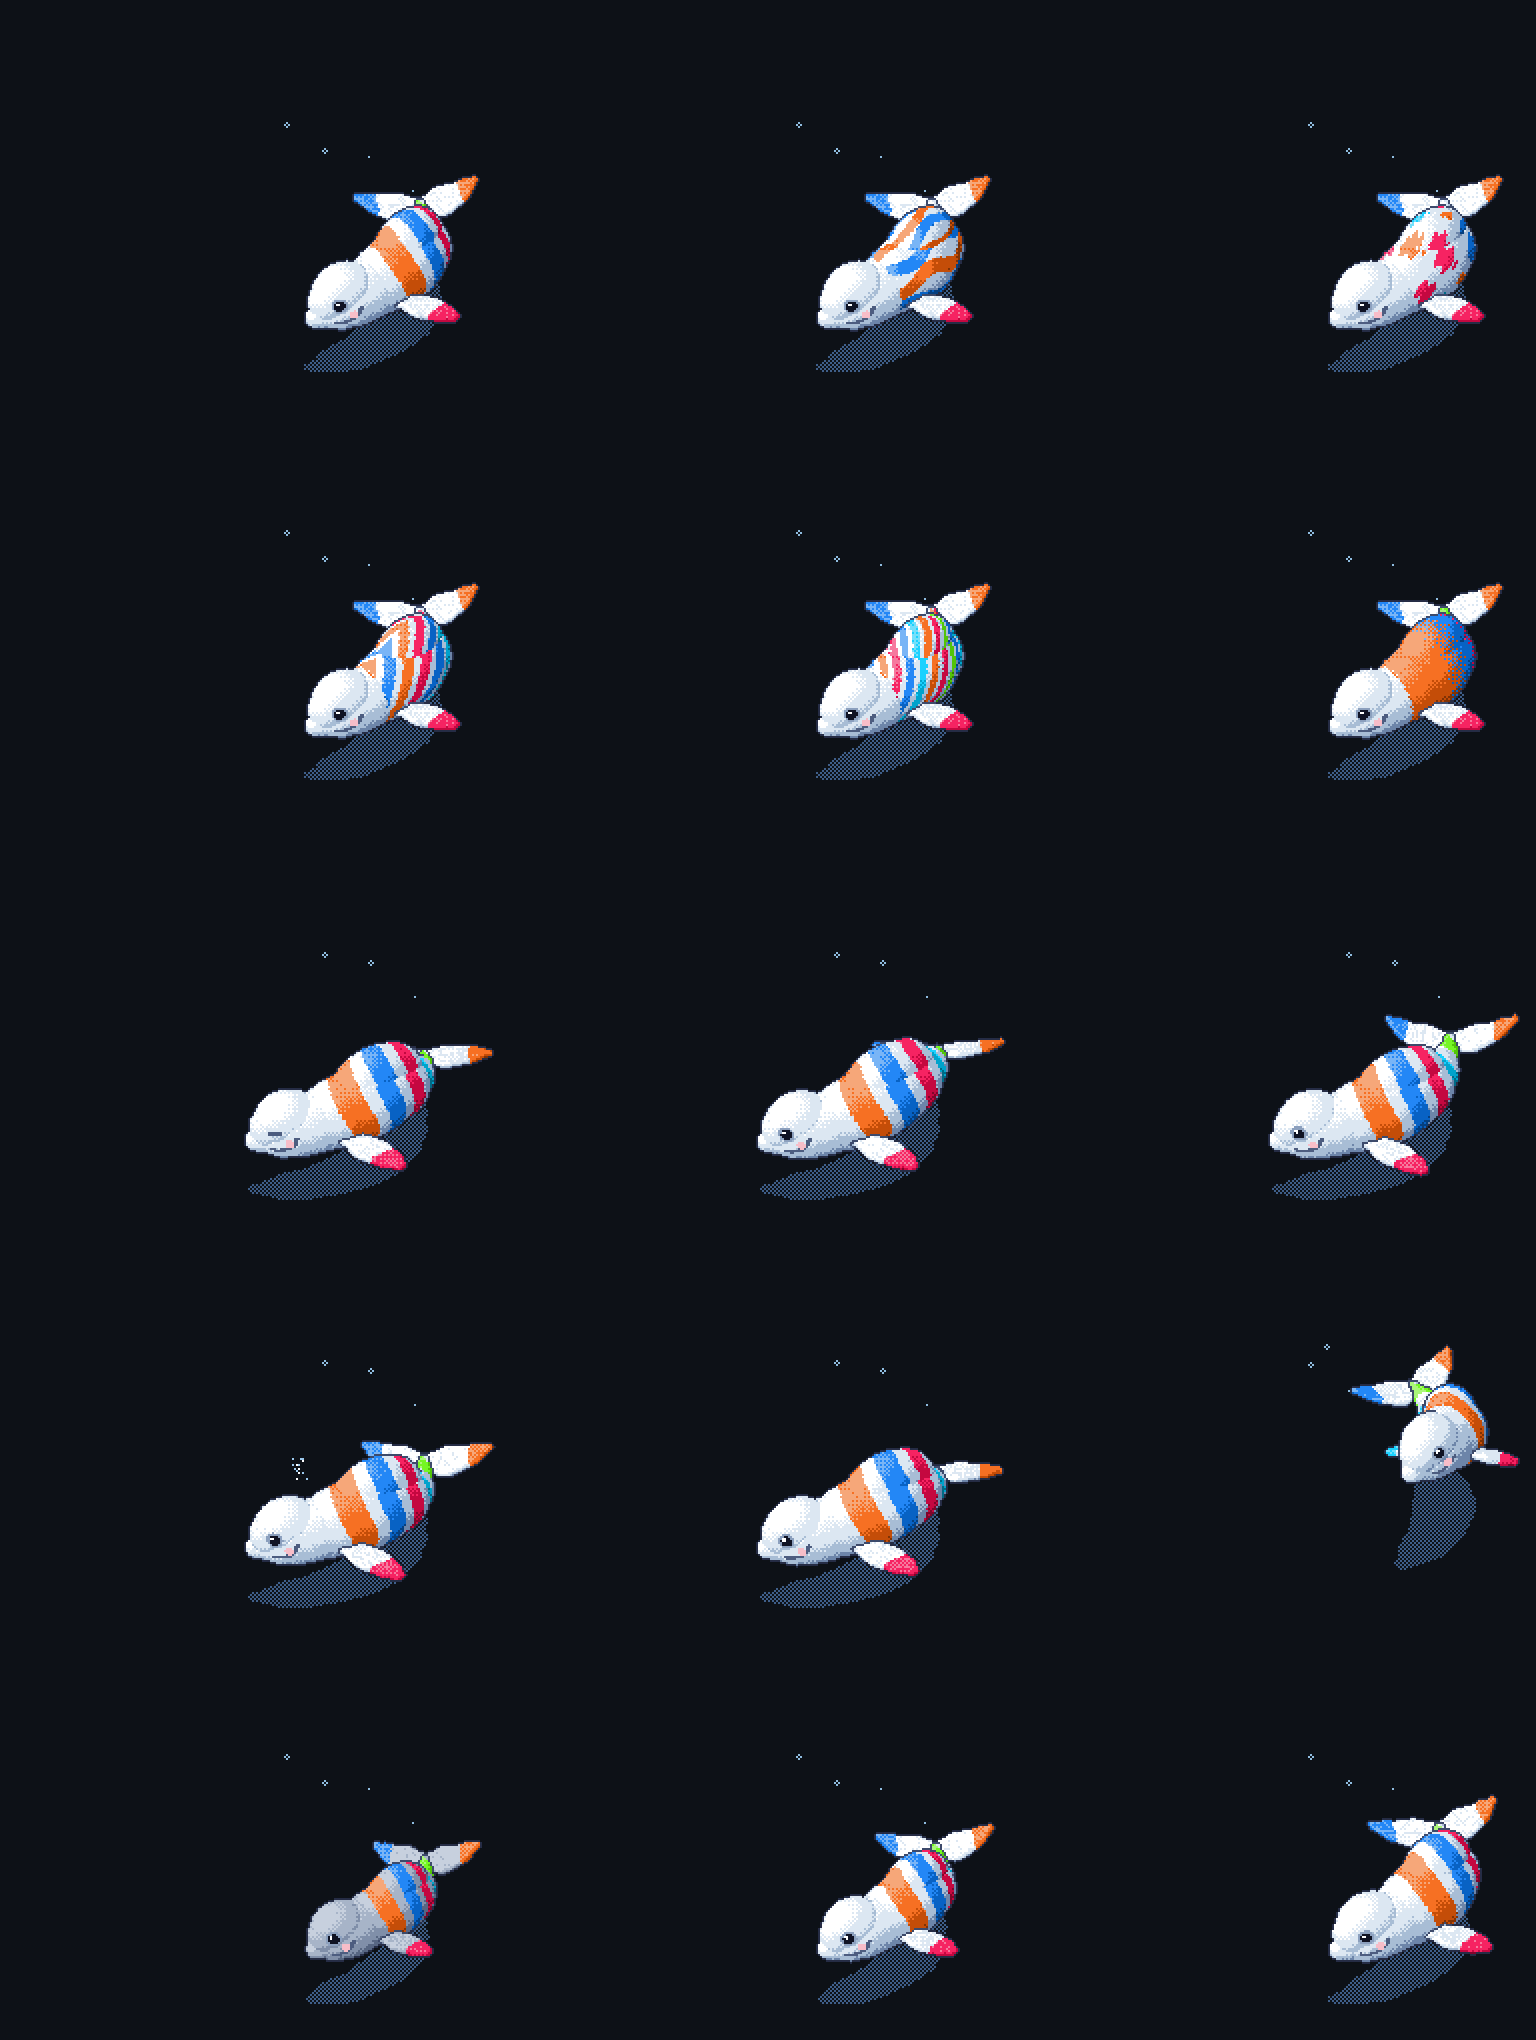
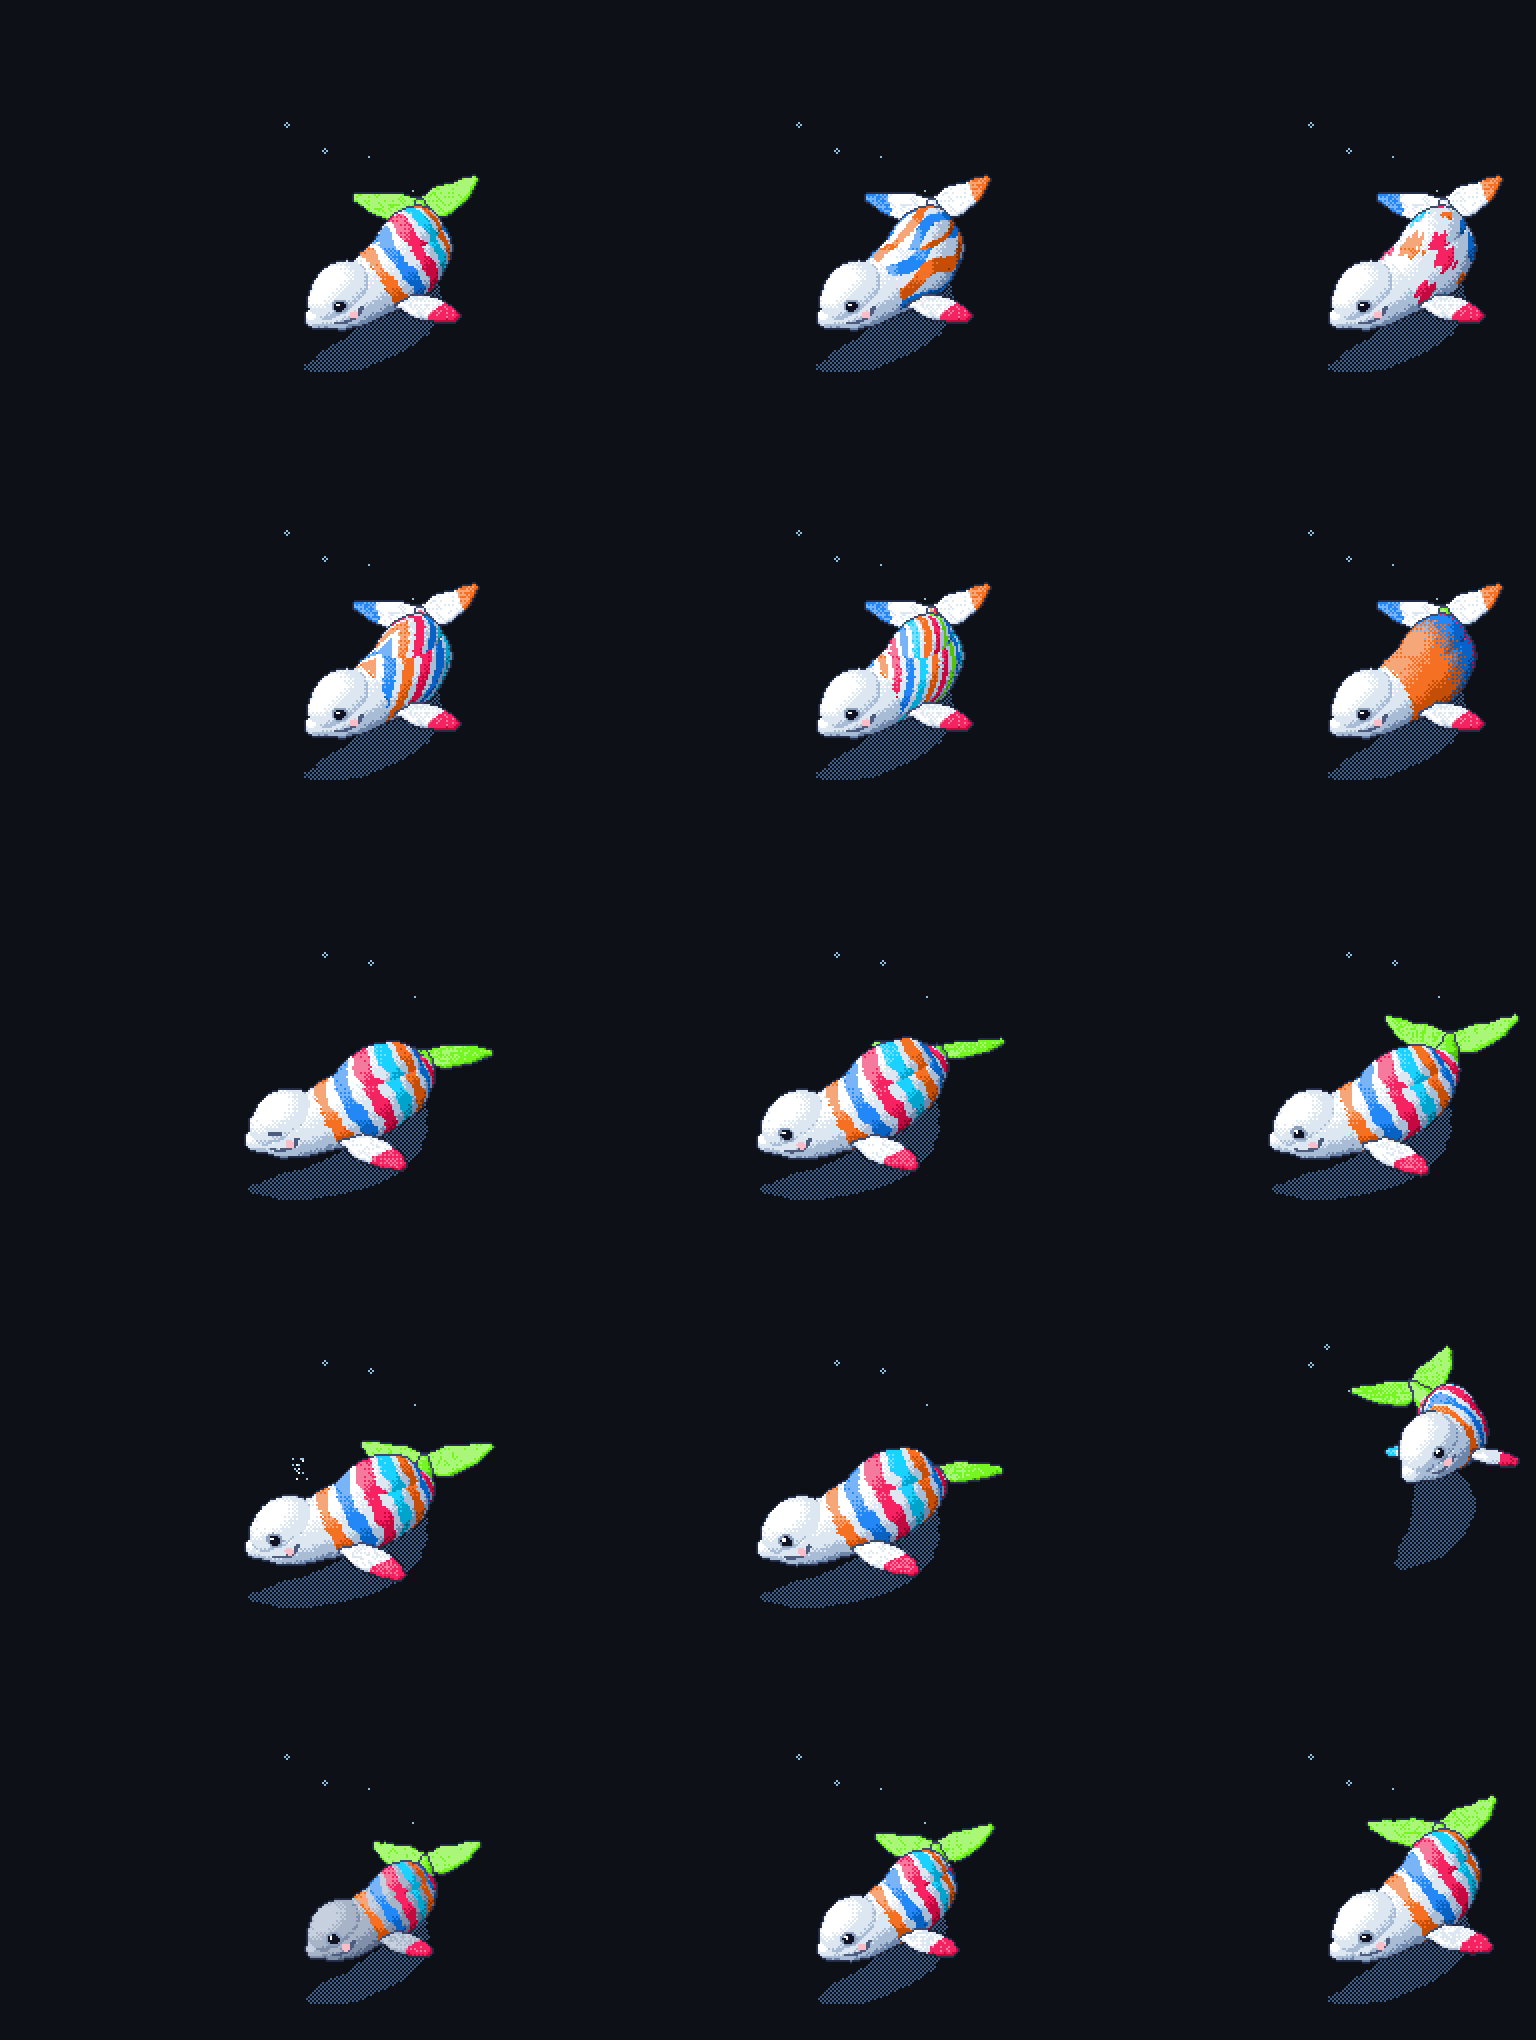
Bring back repeating wavy rings and fill the tail with the least-used language

diff --git a/src/whale.rs b/src/whale.rs
@@ -21,8 +21,13 @@ const ZOOM: f32 = 1.2;
 const WATER_Z: f32 = -27.0;
 /// Where color starts on the body; the head stays white for the face.
 const COLOR_START: f32 = 0.25;
-/// How much of the skin behind the head the rings cover; the rest stays white between them.
-const RING_COVERAGE: f32 = 0.55;
+/// Rings repeat down the body: this many, one wave of color and white each.
+const HOOPS: usize = 7;
+const HOOP_LENGTH: f32 = 7.6;
+/// The part of each hoop's length that is color; the rest stays white.
+const HOOP_COLOR: f32 = 0.62;
+/// Behind this point the body is the tail, painted in the least-used language.
+const TAIL_START: f32 = 0.84;
 const MOUTH_RADIUS: f32 = 0.72;
 const BLUSH_RADIUS: f32 = 1.7;
 const EYE_U: f32 = 0.15;
@@ -284,7 +289,8 @@ impl Buffer {
 
 #[derive(Clone, Copy, PartialEq, Debug)]
 pub enum Pattern {
-    /// Slim hoops around the body, sized by each language's share of the colored skin.
+    /// Wavy hoops down the body, repeated in proportion to the languages, with the least-used
+    /// language filling the tail.
     Rings,
     /// Long ribbons of light flowing the length of the body.
     Aurora,
@@ -327,59 +333,26 @@ fn mix(a: Rgb, b: Rgb, t: f32) -> Rgb {
     Rgb(m(a.0, b.0), m(a.1, b.1), m(a.2, b.2))
 }
 
-/// One ring: where it starts and ends along the body, and whose language it is.
-#[derive(Clone, Copy, Debug)]
-struct Ring {
-    start: f32,
-    end: f32,
-    language: usize,
-}
-
-/// Lays out one ring per language so each covers its share of the skin. A ring's length is
-/// not its share, because the body tapers: skin area goes with the radius, so the same share
-/// makes a narrow ring on the wide back and a longer one near the thin tail.
-fn lay_out_rings(shares: &[f32]) -> Vec<Ring> {
-    const STEPS: usize = 4000;
-    let total: f32 = shares.iter().sum();
-    if total <= 0.0 {
+/// Which language each hoop wears, from the head back. The least-used language has the tail,
+/// so the others share the hoops: everyone gets one, then the rest go by share. An account
+/// with one language wears it everywhere.
+fn hoop_languages(shares: &[f32]) -> Vec<usize> {
+    let pool = shares.len().saturating_sub(1).max(1).min(shares.len());
+    if pool == 0 {
         return Vec::new();
     }
-    let step = (1.0 - COLOR_START) / STEPS as f32;
-    let area_of = |i: usize| radius(COLOR_START + (i as f32 + 0.5) * step) * step * LENGTH;
-    let body_area: f32 = (0..STEPS).map(area_of).sum();
-    let colored = body_area * RING_COVERAGE;
-    // Each ring follows an equal band of white, so slim rings spread down the body.
-    let gap_area = (body_area - colored) / shares.len() as f32;
-    let mut rings = Vec::with_capacity(shares.len());
-    let (mut i, mut walked) = (0, 0.0);
-    for (language, &share) in shares.iter().enumerate() {
-        // White comes first, so the last and smallest ring lands on the thin tail, where the
-        // same area makes a longer, easier-to-see band.
-        let gap_end = walked + gap_area;
-        while i < STEPS && walked < gap_end {
-            walked += area_of(i);
-            i += 1;
-        }
-        let start = COLOR_START + i as f32 * step;
-        let target = walked + share / total * colored;
-        while i < STEPS && walked < target {
-            walked += area_of(i);
-            i += 1;
-        }
-        rings.push(Ring {
-            start,
-            end: COLOR_START + i as f32 * step,
-            language,
-        });
+    let mut hoops: Vec<usize> = (0..pool.min(HOOPS)).collect();
+    let total: f32 = shares[..pool].iter().sum();
+    while hoops.len() < HOOPS {
+        let need = |i: usize| {
+            shares[i] / total * HOOPS as f32 - hoops.iter().filter(|&&h| h == i).count() as f32
+        };
+        let best = (0..pool)
+            .max_by(|&a, &b| need(a).total_cmp(&need(b)).then(b.cmp(&a)))
+            .expect("the pool is not empty");
+        hoops.push(best);
     }
-    rings
-}
-
-fn ring_at(rings: &[Ring], u: f32) -> Option<usize> {
-    rings
-        .iter()
-        .find(|r| u >= r.start && u < r.end)
-        .map(|r| r.language)
+    hoops
 }
 
 /// Everything about the whale that does not change from frame to frame.
@@ -391,7 +364,9 @@ pub struct Whale {
     head_boost: f32,
     skin: Ramp,
     ramps: Vec<Ramp>,
-    rings: Vec<Ring>,
+    hoops: Vec<usize>,
+    /// The least-used language, which fills the tail in the Rings pattern.
+    least_used: Option<usize>,
     slots: Vec<usize>,
     /// Colors for bands that travel: exactly FLOW_BANDS pass per lap, so the loop closes.
     flow: Vec<usize>,
@@ -454,7 +429,8 @@ impl Whale {
                     Ramp::language(parse_hex(&l.color).unwrap_or(Rgb(0x8b, 0x93, 0xa7)), vivid)
                 })
                 .collect(),
-            rings: lay_out_rings(&shares),
+            hoops: hoop_languages(&shares),
+            least_used: shares.len().checked_sub(1),
             tips: allot(&shares, 4),
             flow: allot(&shares, FLOW_BANDS),
             slots,
@@ -656,12 +632,6 @@ fn along_body(samples: &[Sample], pos: V3) -> f32 {
     best as f32 / (samples.len() - 1) as f32
 }
 
-#[cfg(test)]
-thread_local! {
-    /// Body pixels drawn per ring language, so tests can measure the real picture.
-    static RING_PIXELS: std::cell::RefCell<Vec<u32>> = const { std::cell::RefCell::new(Vec::new()) };
-}
-
 fn scene(whale: &Whale, mood: Mood, t: f32) -> Frame {
     let cam = Camera::new();
     let samples = spine(whale, mood, t);
@@ -781,6 +751,10 @@ fn scene(whale: &Whale, mood: Mood, t: f32) -> Frame {
             // Wrapped light, so the shadow side falls off gently into blue.
             let light = (dot(hit.normal, sun) * 0.74 + 0.27).clamp(0.0, 1.0);
             let color = match hit.part {
+                Part::Fluke(_) if whale.pattern == Pattern::Rings && whale.least_used.is_some() => {
+                    let language = whale.least_used.expect("checked by the guard");
+                    whale.ramps[language].at(light * 0.85 + 0.12, x, y)
+                }
                 Part::Flipper(i) if hit.u > 0.62 => tip(2 + i).at(light * 0.8 + 0.1, x, y),
                 Part::Fluke(i) if hit.u > 0.64 => tip(i).at(light * 0.8 + 0.1, x, y),
                 Part::Body => {
@@ -796,14 +770,6 @@ fn scene(whale: &Whale, mood: Mood, t: f32) -> Frame {
                     } else if let Some((language, shift)) =
                         marking(whale, along_body(&samples, hit.pos), around, t, dither)
                     {
-                        #[cfg(test)]
-                        RING_PIXELS.with(|counts| {
-                            let mut counts = counts.borrow_mut();
-                            if counts.len() <= language {
-                                counts.resize(language + 1, 0);
-                            }
-                            counts[language] += 1;
-                        });
                         whale.ramps[language].at(light * 0.85 + 0.12 + shift, x, y)
                     } else {
                         whale.skin.at(light, x, y)
@@ -987,9 +953,18 @@ fn marking(whale: &Whale, u: f32, around: f32, t: f32, dither: f32) -> Option<(u
             (dx.hypot(dy) < size * wobble).then_some((wrap(i * 11), 0.0))
         }),
         Pattern::Rings => {
-            // A gentle wave in each edge; it moves the boundary, not the ring's share.
-            let wavy = u + 1.6 * (around.to_radians() * 2.0).sin() / LENGTH;
-            ring_at(&whale.rings, wavy).map(|language| (language, 0.0))
+            let angle = around.to_radians();
+            let wavy = x + 2.4 * (angle * 2.0).sin() + 0.5 * (angle * 5.0 + x * 0.7).sin();
+            if wavy >= TAIL_START * LENGTH {
+                whale.least_used.map(|language| (language, 0.0))
+            } else {
+                let v = (wavy - COLOR_START * LENGTH) / HOOP_LENGTH;
+                let band = v.floor();
+                (v >= 0.0 && v - band < HOOP_COLOR)
+                    .then(|| whale.hoops.get(band as usize))
+                    .flatten()
+                    .map(|&language| (language, 0.0))
+            }
         }
         Pattern::Tide => {
             let v = (x + y.abs() * 0.85) / 9.0 - t * FLOW_BANDS as f32;
@@ -1091,67 +1066,35 @@ mod tests {
             .collect()
     }
 
-    /// Measures how much colored skin each language really got.
-    fn measured_shares(rings: &[Ring], count: usize) -> Vec<f32> {
-        const STEPS: usize = 20_000;
-        let mut area = vec![0.0f32; count];
-        for i in 0..STEPS {
-            let u = COLOR_START + (1.0 - COLOR_START) * (i as f32 + 0.5) / STEPS as f32;
-            if let Some(language) = ring_at(rings, u) {
-                area[language] += radius(u);
-            }
-        }
-        let total: f32 = area.iter().sum();
-        area.iter().map(|a| a / total).collect()
-    }
-
     #[test]
-    fn rings_cover_exactly_each_languages_share() {
-        for shares in [
-            vec![0.83, 0.17],
-            vec![0.283, 0.217, 0.2, 0.1, 0.1, 0.082, 0.018],
-            vec![1.0],
-        ] {
-            let measured = measured_shares(&lay_out_rings(&shares), shares.len());
-            for (want, got) in shares.iter().zip(&measured) {
-                assert!((want - got).abs() < 0.005, "wanted {want}, measured {got}");
-            }
-        }
-    }
-
-    #[test]
-    fn drawn_rings_match_the_shares_over_a_whole_lap() {
+    fn hoops_follow_shares_and_leave_the_least_used_language_for_the_tail() {
         let shares = [0.257, 0.197, 0.182, 0.182, 0.091, 0.074, 0.017];
-        let a = activity(40);
-        let whale = Whale::new(&a, &languages(&shares), Pattern::Rings);
-        RING_PIXELS.with(|counts| counts.borrow_mut().clear());
-        for i in 0..FRAMES {
-            scene(&whale, Mood::Swim, i as f32 / FRAMES as f32);
+        let hoops = hoop_languages(&shares);
+        let count = |language: usize| hoops.iter().filter(|&&h| h == language).count();
+        assert_eq!(hoops.len(), HOOPS);
+        assert_eq!(count(6), 0, "the least-used language belongs to the tail");
+        for language in 0..6 {
+            assert!(count(language) >= 1, "language {language} has no hoop");
         }
-        let counts = RING_PIXELS.with(|counts| counts.borrow().clone());
-        let total: u32 = counts.iter().sum();
-        for (i, (&want, &got)) in shares.iter().zip(&counts).enumerate() {
-            let measured = got as f32 / total as f32;
-            println!(
-                "language {i}: wanted {:.1}%, drew {:.1}%",
-                want * 100.0,
-                measured * 100.0
-            );
-            assert!(
-                (measured - want).abs() <= 0.03 + want * 0.25,
-                "language {i}: wanted {want}, drew {measured}"
-            );
-        }
+        assert!(count(0) >= count(4));
     }
 
     #[test]
-    fn a_tiny_language_still_gets_a_visible_ring() {
-        let rings = lay_out_rings(&[0.283, 0.217, 0.2, 0.1, 0.1, 0.082, 0.018]);
-        let smallest = rings[6];
-        assert!(
-            (smallest.end - smallest.start) * LENGTH >= 2.0,
-            "{smallest:?}"
-        );
+    fn one_or_two_languages_still_work() {
+        assert_eq!(hoop_languages(&[1.0]), vec![0; HOOPS]);
+        assert_eq!(hoop_languages(&[0.83, 0.17]), vec![0; HOOPS]);
+        assert!(hoop_languages(&[]).is_empty());
+    }
+
+    #[test]
+    fn the_tail_is_painted_in_the_least_used_language() {
+        let a = activity(4000);
+        let langs = languages(&[0.6, 0.3, 0.1]);
+        let whale = Whale::new(&a, &langs, Pattern::Rings);
+        let least = whale.ramps[2].0;
+        let frame = scene(&whale, Mood::Swim, 0.3);
+        let pixels = frame.iter().flatten().filter(|c| least.contains(c)).count();
+        assert!(pixels > 60, "only {pixels} tail-colored pixels");
     }
 
     #[test]

diff --git a/README.md b/README.md
@@ -21,15 +21,14 @@ Inspired by [git-koi](https://github.com/yalongwastaken/git-koi) by
 adds 0.83 and 0.17 to those languages, and the totals are divided by the number of
 repositories, so a huge notebook repo counts the same as a small script.
 
-In the default Rings pattern, each language gets one ring covering its share of the
-colored skin, with white between the rings. The body tapers, so the same share makes a narrow ring on the wide back and a
-longer one near the tail.
+In the default Rings pattern, wavy rings repeat down the body with white between them. Each
+language gets at least one ring and the bigger ones get more, while the least-used language
+fills the tail.
 
 ## Patterns
 
-`rings` (default), `aurora`, `patches`, `tide`, `swirl` and `ombre`. Rings is the only one
-whose coverage closely follows your percentages, within about 3 points over a lap; the
-others spread colors roughly in proportion.
+`rings` (default), `aurora`, `patches`, `tide`, `swirl` and `ombre`. Every pattern spreads
+colors roughly in proportion to your languages. The legend shows the true percentages.
 
 ## Moods
 
